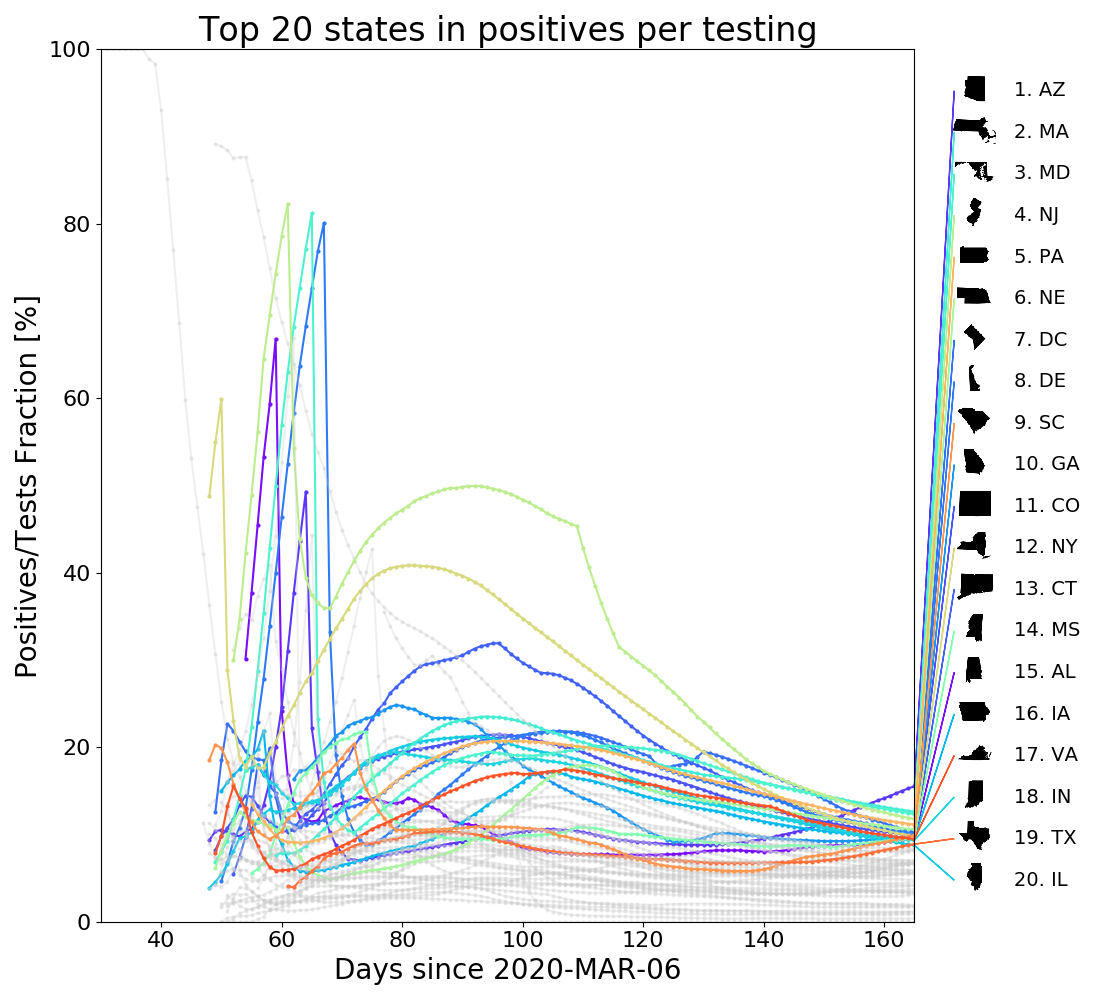
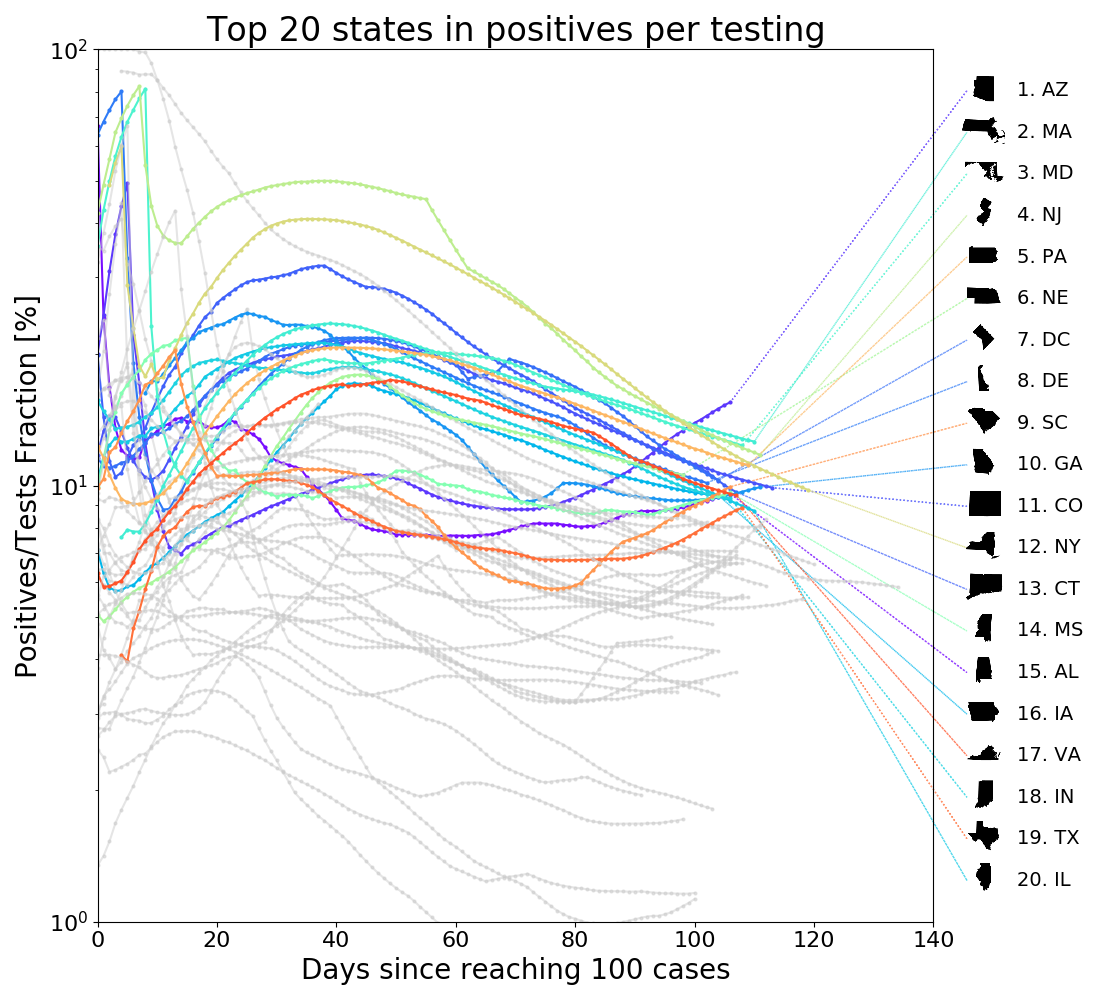
USA states relative dates

diff --git a/src/usa_states_eda.py b/src/usa_states_eda.py
@@ -22,26 +22,32 @@ states = states_df['state'].unique()
 
 window = 7
 topn = 20
-maxx = np.max(states_df['date'].unique()-min_date)/np.timedelta64(1, 'D')
+#maxx = np.max(states_df['date'].unique()-min_date)/np.timedelta64(1, 'D')
+maxx = 140
 colors = get_list_colors('rainbow', len(states))
 
-maxy = 1e07
-miny = 10
+maxy = 1e06
+miny = 100
 hlstates = states_df.groupby('state')['positive'].max().sort_values(ascending=True).index[-topn:].values
 legendys = np.logspace(np.log10(miny), np.log10(maxy), len(hlstates)+2)
 fig, axes = plt.subplots(ncols=1, nrows=1, figsize=(11, 10))
 for (i, state) in enumerate(states):
     sdf = states_df[states_df['state'] == state].sort_values('date', ascending=True)
     days = pd.Series((sdf['date'] - min_date).values/np.timedelta64(1, 'D'))
-    yval = sdf['positive']
+    if((sdf['positive'] > 100).sum() > 0):
+        zeroday = (sdf[sdf['positive'] > 100]['date'].iloc[0]-min_date)/np.timedelta64(1, 'D')
+    else:
+        zeroday = days.max()
+    deltadays = days-zeroday
+    yval = sdf['positive']    
     if(state in hlstates):
         color = colors[i]
         ind = np.where(hlstates == state)[0][0]
         axes.text(1.1*maxx, legendys[ind+1], str(topn-ind)+'. '+state,
                   horizontalalignment='left', verticalalignment='center', fontsize=14)
-        plt.arrow(maxx, yval.iloc[-1],
-                  0.04*maxx, legendys[ind+1]-yval.iloc[-1],
-                  clip_on=False, shape='right', color=color)
+        plt.arrow(deltadays.max(), yval.iloc[-1],
+                  1.04*maxx-deltadays.max(), legendys[ind+1]-yval.iloc[-1],
+                  clip_on=False, shape='right', ls=':', color=color, alpha=0.75)
         path = 'state-svg-defs/SVG/'+ state +'.png'
         zoom = 0.3
         #path = 'flags/svg/us/' + state.lower() + '.png'
@@ -54,10 +60,10 @@ for (i, state) in enumerate(states):
                             frameon=False, annotation_clip=False)
         axes.add_artist(ab)
     else:
-        color = (0.8, 0.8, 0.8, 0.3)
+        color = (0.8, 0.8, 0.8, 0.5)
     sizes = 2
-    axes.plot(days, yval, 'o-', c=color, markersize=sizes, markeredgecolor=color)
-local_axes_formatting(axes, "Days since 2020-MAR-06", "Total Positive Cases", xlim1=30, xlim2=maxx, ylim1=miny, ylim2=maxy, logx=False, fs=20)
+    axes.plot(deltadays, yval, 'o-', c=color, markersize=sizes, markeredgecolor=color)
+local_axes_formatting(axes, "Days since reacing 100 cases", "Total Positive Cases", xlim1=0, xlim2=maxx, ylim1=miny, ylim2=maxy, logx=False, fs=20)
 axes.set_title('Top 20 states in total positive cases', fontsize=24)
 plt.xticks(fontsize=16)
 plt.yticks(fontsize=16)
@@ -72,15 +78,20 @@ fig, axes = plt.subplots(ncols=1, nrows=1, figsize=(11, 10))
 for (i, state) in enumerate(states):
     sdf = states_df[states_df['state'] == state].sort_values('date', ascending=True)
     days = pd.Series((sdf['date'] - min_date).values/np.timedelta64(1, 'D'))
+    if((sdf['positive'] > 100).sum() > 0):
+        zeroday = (sdf[sdf['positive'] > 100]['date'].iloc[0]-min_date)/np.timedelta64(1, 'D')
+    else:
+        zeroday = days.max()
+    deltadays = days-zeroday
     yval = sdf['death']
     if(state in hlstates):
         color = colors[i]
         ind = np.where(hlstates == state)[0][0]
         axes.text(1.1*maxx, legendys[ind+1], str(topn-ind)+'. '+state,
                   horizontalalignment='left', verticalalignment='center', fontsize=14)
-        plt.arrow(maxx, yval.iloc[-1],
-                  0.04*maxx, legendys[ind+1]-yval.iloc[-1],
-                  clip_on=False, shape='right', color=color)
+        plt.arrow(deltadays.max(), yval.iloc[-1],
+                  1.04*maxx-deltadays.max(), legendys[ind+1]-yval.iloc[-1],
+                  clip_on=False, shape='right', ls=':', color=color, alpha=0.75)
         path = 'state-svg-defs/SVG/'+ state +'.png'
         zoom = 0.3
         #path = 'flags/svg/us/' + state.lower() + '.png'
@@ -93,10 +104,10 @@ for (i, state) in enumerate(states):
                             frameon=False, annotation_clip=False)
         axes.add_artist(ab)
     else:
-        color = (0.8, 0.8, 0.8, 0.3)
+        color = (0.8, 0.8, 0.8, 0.5)
     sizes = 2
-    axes.plot(days, yval, 'o-', c=color, markersize=sizes, markeredgecolor=color)
-local_axes_formatting(axes, "Days since 2020-MAR-06", "Total reported deaths", xlim1=30, xlim2=maxx, ylim1=miny, ylim2=maxy, logx=False, fs=20)
+    axes.plot(deltadays, yval, 'o-', c=color, markersize=sizes, markeredgecolor=color)
+local_axes_formatting(axes, "Days since reaching 100 cases", "Total reported deaths", xlim1=0, xlim2=maxx, ylim1=miny, ylim2=maxy, logx=False, fs=20)
 axes.set_title('Top 20 states in total reported deaths', fontsize=24)
 plt.xticks(fontsize=16)
 plt.yticks(fontsize=16)
@@ -104,22 +115,27 @@ plt.tight_layout()
 figsaveandclose(fig, output="../figures/eda_covidtracking_states_total_deaths.png")
 
 maxy = 1e07
-miny = 10
-hlstates = states_df.groupby('state')['positive'].max().sort_values(ascending=True).index[-topn:].values
+miny = 100
+hlstates = states_df.groupby('state')['total_test'].max().sort_values(ascending=True).index[-topn:].values
 legendys = np.logspace(np.log10(miny), np.log10(maxy), len(hlstates)+2)
 fig, axes = plt.subplots(ncols=1, nrows=1, figsize=(11, 10))
 for (i, state) in enumerate(states):
     sdf = states_df[states_df['state'] == state].sort_values('date', ascending=True)
     days = pd.Series((sdf['date'] - min_date).values/np.timedelta64(1, 'D'))
+    if((sdf['positive'] > 100).sum() > 0):
+        zeroday = (sdf[sdf['positive'] > 100]['date'].iloc[0]-min_date)/np.timedelta64(1, 'D')
+    else:
+        zeroday = days.max()
+    deltadays = days-zeroday
     yval = sdf['total_test']
     if(state in hlstates):
         color = colors[i]
         ind = np.where(hlstates == state)[0][0]
         axes.text(1.1*maxx, legendys[ind+1], str(topn-ind)+'. '+state,
                   horizontalalignment='left', verticalalignment='center', fontsize=14)
-        plt.arrow(maxx, yval.iloc[-1],
-                  0.04*maxx, legendys[ind+1]-yval.iloc[-1],
-                  clip_on=False, shape='right', color=color)
+        plt.arrow(deltadays.max(), yval.iloc[-1],
+                  1.04*maxx-deltadays.max(), legendys[ind+1]-yval.iloc[-1],
+                  clip_on=False, shape='right', ls=':', color=color, alpha=0.75)
         path = 'state-svg-defs/SVG/'+ state +'.png'
         zoom = 0.3
         #path = 'flags/svg/us/' + state.lower() + '.png'
@@ -132,10 +148,10 @@ for (i, state) in enumerate(states):
                             frameon=False, annotation_clip=False)
         axes.add_artist(ab)
     else:
-        color = (0.8, 0.8, 0.8, 0.3)
+        color = (0.8, 0.8, 0.8, 0.5)
     sizes = 2
-    axes.plot(days, yval, 'o-', c=color, markersize=sizes, markeredgecolor=color)
-local_axes_formatting(axes, "Days since 2020-MAR-06", "Total tests", xlim1=30, xlim2=maxx, ylim1=miny, ylim2=maxy, logx=False, fs=20)
+    axes.plot(deltadays, yval, 'o-', c=color, markersize=sizes, markeredgecolor=color)
+local_axes_formatting(axes, "Days since reaching 100 cases", "Total tests", xlim1=0, xlim2=maxx, ylim1=miny, ylim2=maxy, logx=False, fs=20)
 axes.set_title('Top 20 states in testing', fontsize=24)
 plt.xticks(fontsize=16)
 plt.yticks(fontsize=16)
@@ -143,7 +159,7 @@ plt.tight_layout()
 figsaveandclose(fig, output="../figures/eda_covidtracking_states_total_tests.png")
 
 maxy = 100
-miny = 0
+miny = 1
 tempdic = {}
 for (i, state) in enumerate(states):
     sdf = states_df[states_df['state'] == state].sort_values('date', ascending=True)
@@ -154,11 +170,17 @@ for (i, state) in enumerate(states):
     if(ratio >= 0):
         tempdic[state] = ratio
 hlstates = np.array([k for (k,v) in sorted(tempdic.items(), key=lambda item: item[1])][-topn:])
-legendys = np.linspace(miny, maxy, len(hlstates)+2)
+legendys = np.logspace(np.log10(miny), np.log10(maxy), len(hlstates)+2)
+#legendys = np.linspace(miny, maxy, len(hlstates)+2)
 fig, axes = plt.subplots(ncols=1, nrows=1, figsize=(11, 10))
 for (i, state) in enumerate(states):
     sdf = states_df[states_df['state'] == state].sort_values('date', ascending=True)
     days = pd.Series((sdf['date'] - min_date).values/np.timedelta64(1, 'D')).values
+    if((sdf['positive'] > 100).sum() > 0):
+        zeroday = (sdf[sdf['positive'] > 100]['date'].iloc[0]-min_date)/np.timedelta64(1, 'D')
+    else:
+        zeroday = days.max()
+    deltadays = days-zeroday
     val1 = sdf['positive'].rolling(window=window).mean().values
     val2 = sdf['total_test'].rolling(window=window).mean().values
     #val1 = smooth(sdf['positive'].values)
@@ -170,9 +192,9 @@ for (i, state) in enumerate(states):
         ind = np.where(hlstates == state)[0][0]
         axes.text(1.1*maxx, legendys[ind+1], str(topn-ind)+'. '+state,
                   horizontalalignment='left', verticalalignment='center', fontsize=14)
-        plt.arrow(maxx, yval[-1],
-                  0.04*maxx, legendys[ind+1]-yval[-1],
-                  clip_on=False, shape='right', color=color)
+        plt.arrow(deltadays.max(), yval[-1],
+                  1.04*maxx-deltadays.max(), legendys[ind+1]-yval[-1],
+                  clip_on=False, shape='right', ls=':', color=color, alpha=0.75)
         path = 'state-svg-defs/SVG/'+ state +'.png'
         zoom = 0.3
         #path = 'flags/svg/us/' + state.lower() + '.png'
@@ -186,9 +208,9 @@ for (i, state) in enumerate(states):
         else:
             print(path)
     else:
-        color = (0.8, 0.8, 0.8, 0.3)
-    axes.plot(days[yval >= 0], yval[yval >= 0], 'o-', c=color, markersize=sizes, markeredgecolor=color)
-local_axes_formatting(axes, "Days since 2020-MAR-06", "Positives/Tests Fraction [%]", xlim1=30, xlim2=maxx, ylim1=miny, ylim2=maxy, logy=False, logx=False, fs=20)
+        color = (0.8, 0.8, 0.8, 0.5)
+    axes.plot(deltadays[yval >= 0], yval[yval >= 0], 'o-', c=color, markersize=sizes, markeredgecolor=color)
+local_axes_formatting(axes, "Days since reaching 100 cases", "Positives/Tests Fraction [%]", xlim1=0, xlim2=maxx, ylim1=miny, ylim2=maxy, logx=False, fs=20)
 axes.set_title('Top 20 states in positives per testing', fontsize=24)
 plt.xticks(fontsize=16)
 plt.yticks(fontsize=16)
